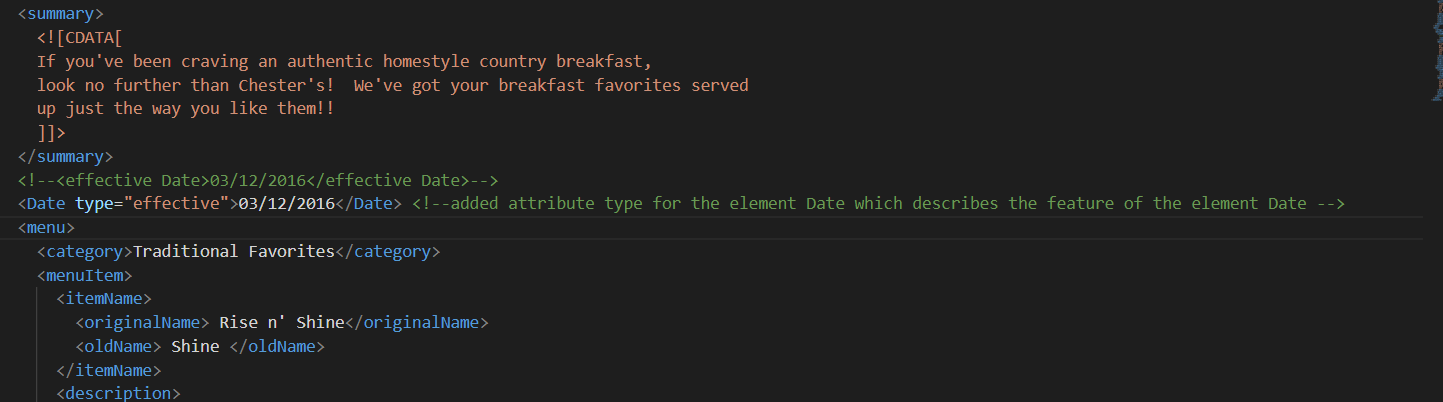
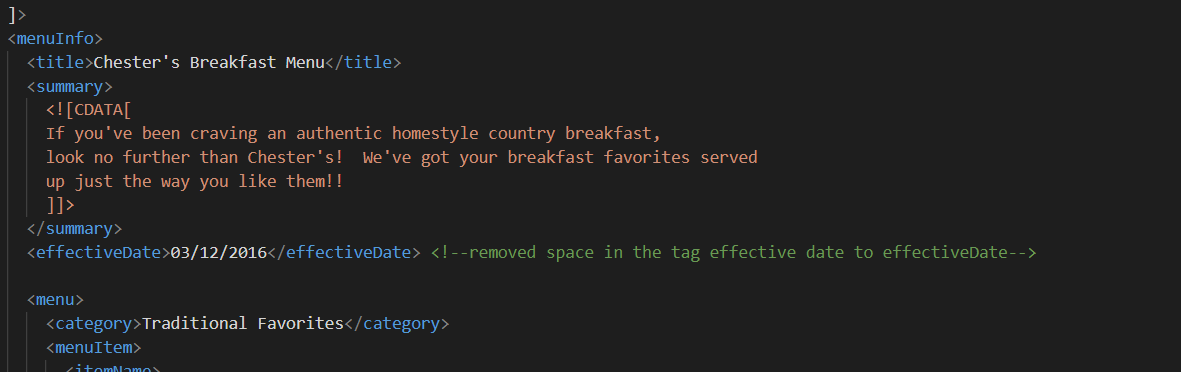
Assignment 1 updated

Changed region(s): [[0.0, 0.0, 0.9145, 1.0], [0.3963, 0.6505, 0.8535, 0.7097], [0.9754, 0.0, 1.0, 0.2661]]

diff --git a/module-02/assignments/assignment_Jais.md b/module-02/assignments/assignment_Jais.md
@@ -4,7 +4,7 @@
 ![image info](error2.png)
 ![image info](error3.png)
 
-1st error occurred because the attribute was not mentioned for the element date. Once it is changed it became fine.
+1st error occurred because the tag had space between effective Date which got changed to effectiveDate.
 2nd error occured because the closing tag originalName was not in the same case as opening tag once changed it became fine.
 3rd error occured because the openening tage didn't have originalName instead it had Name. Once changed it worked.
 
